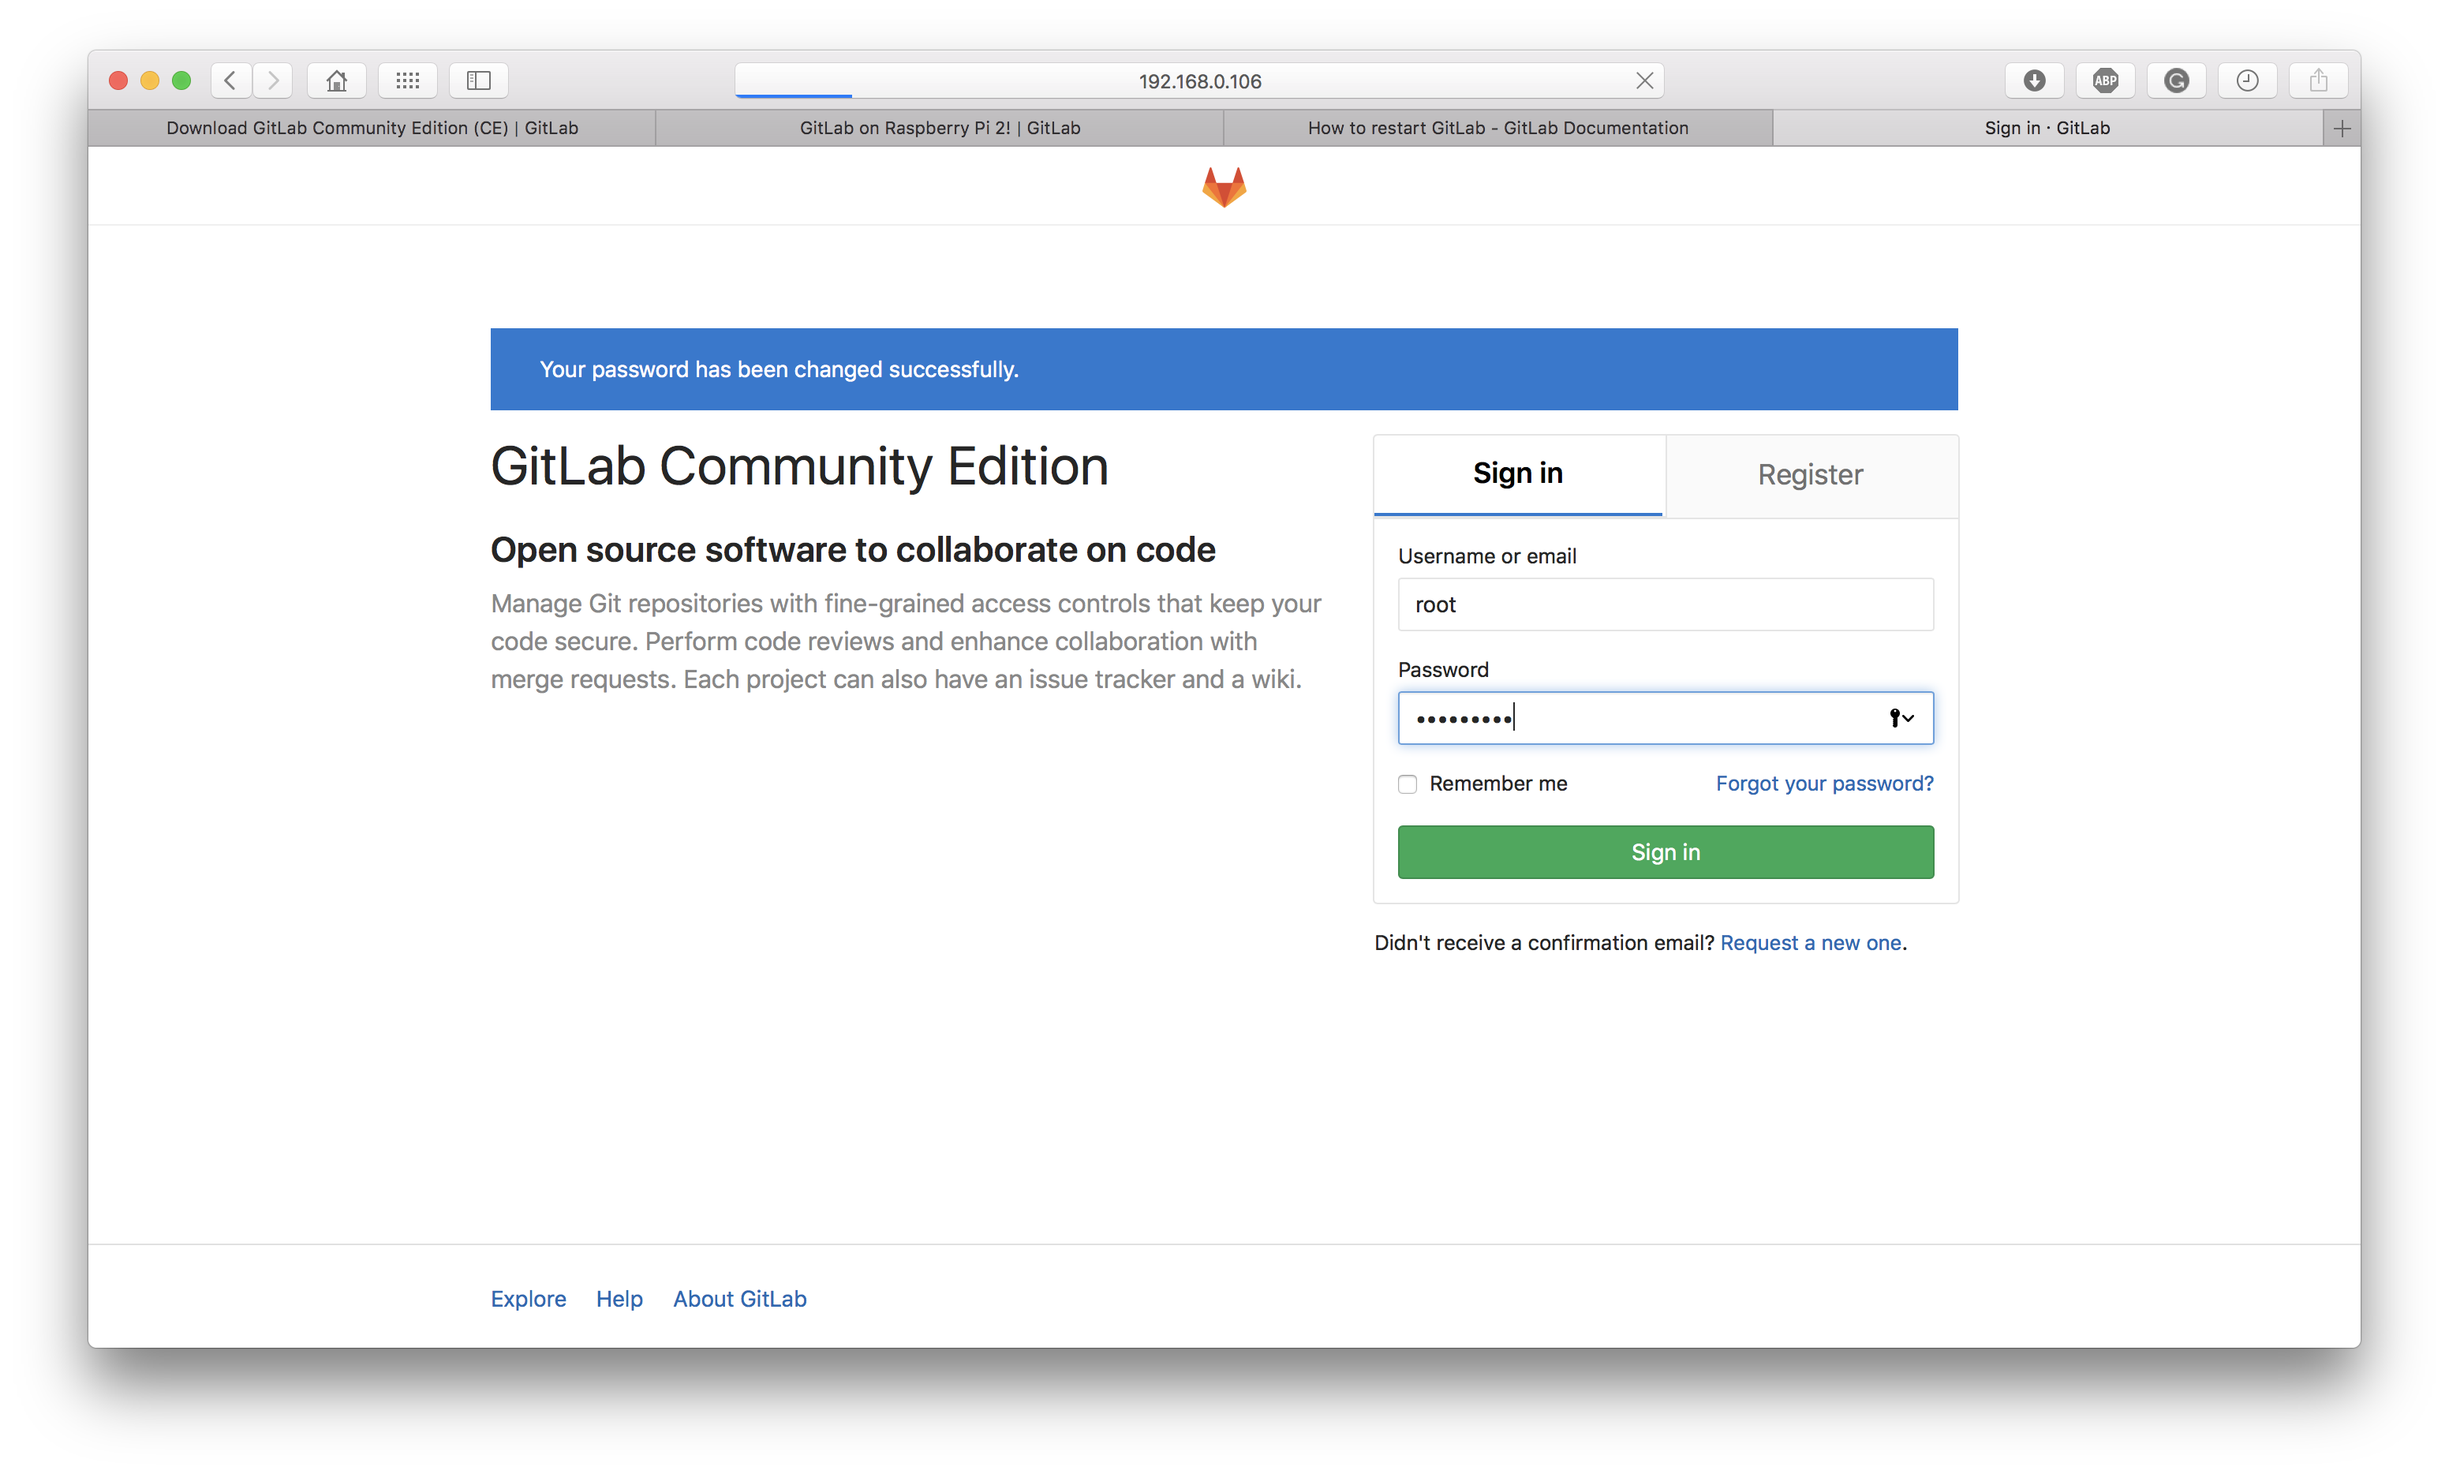
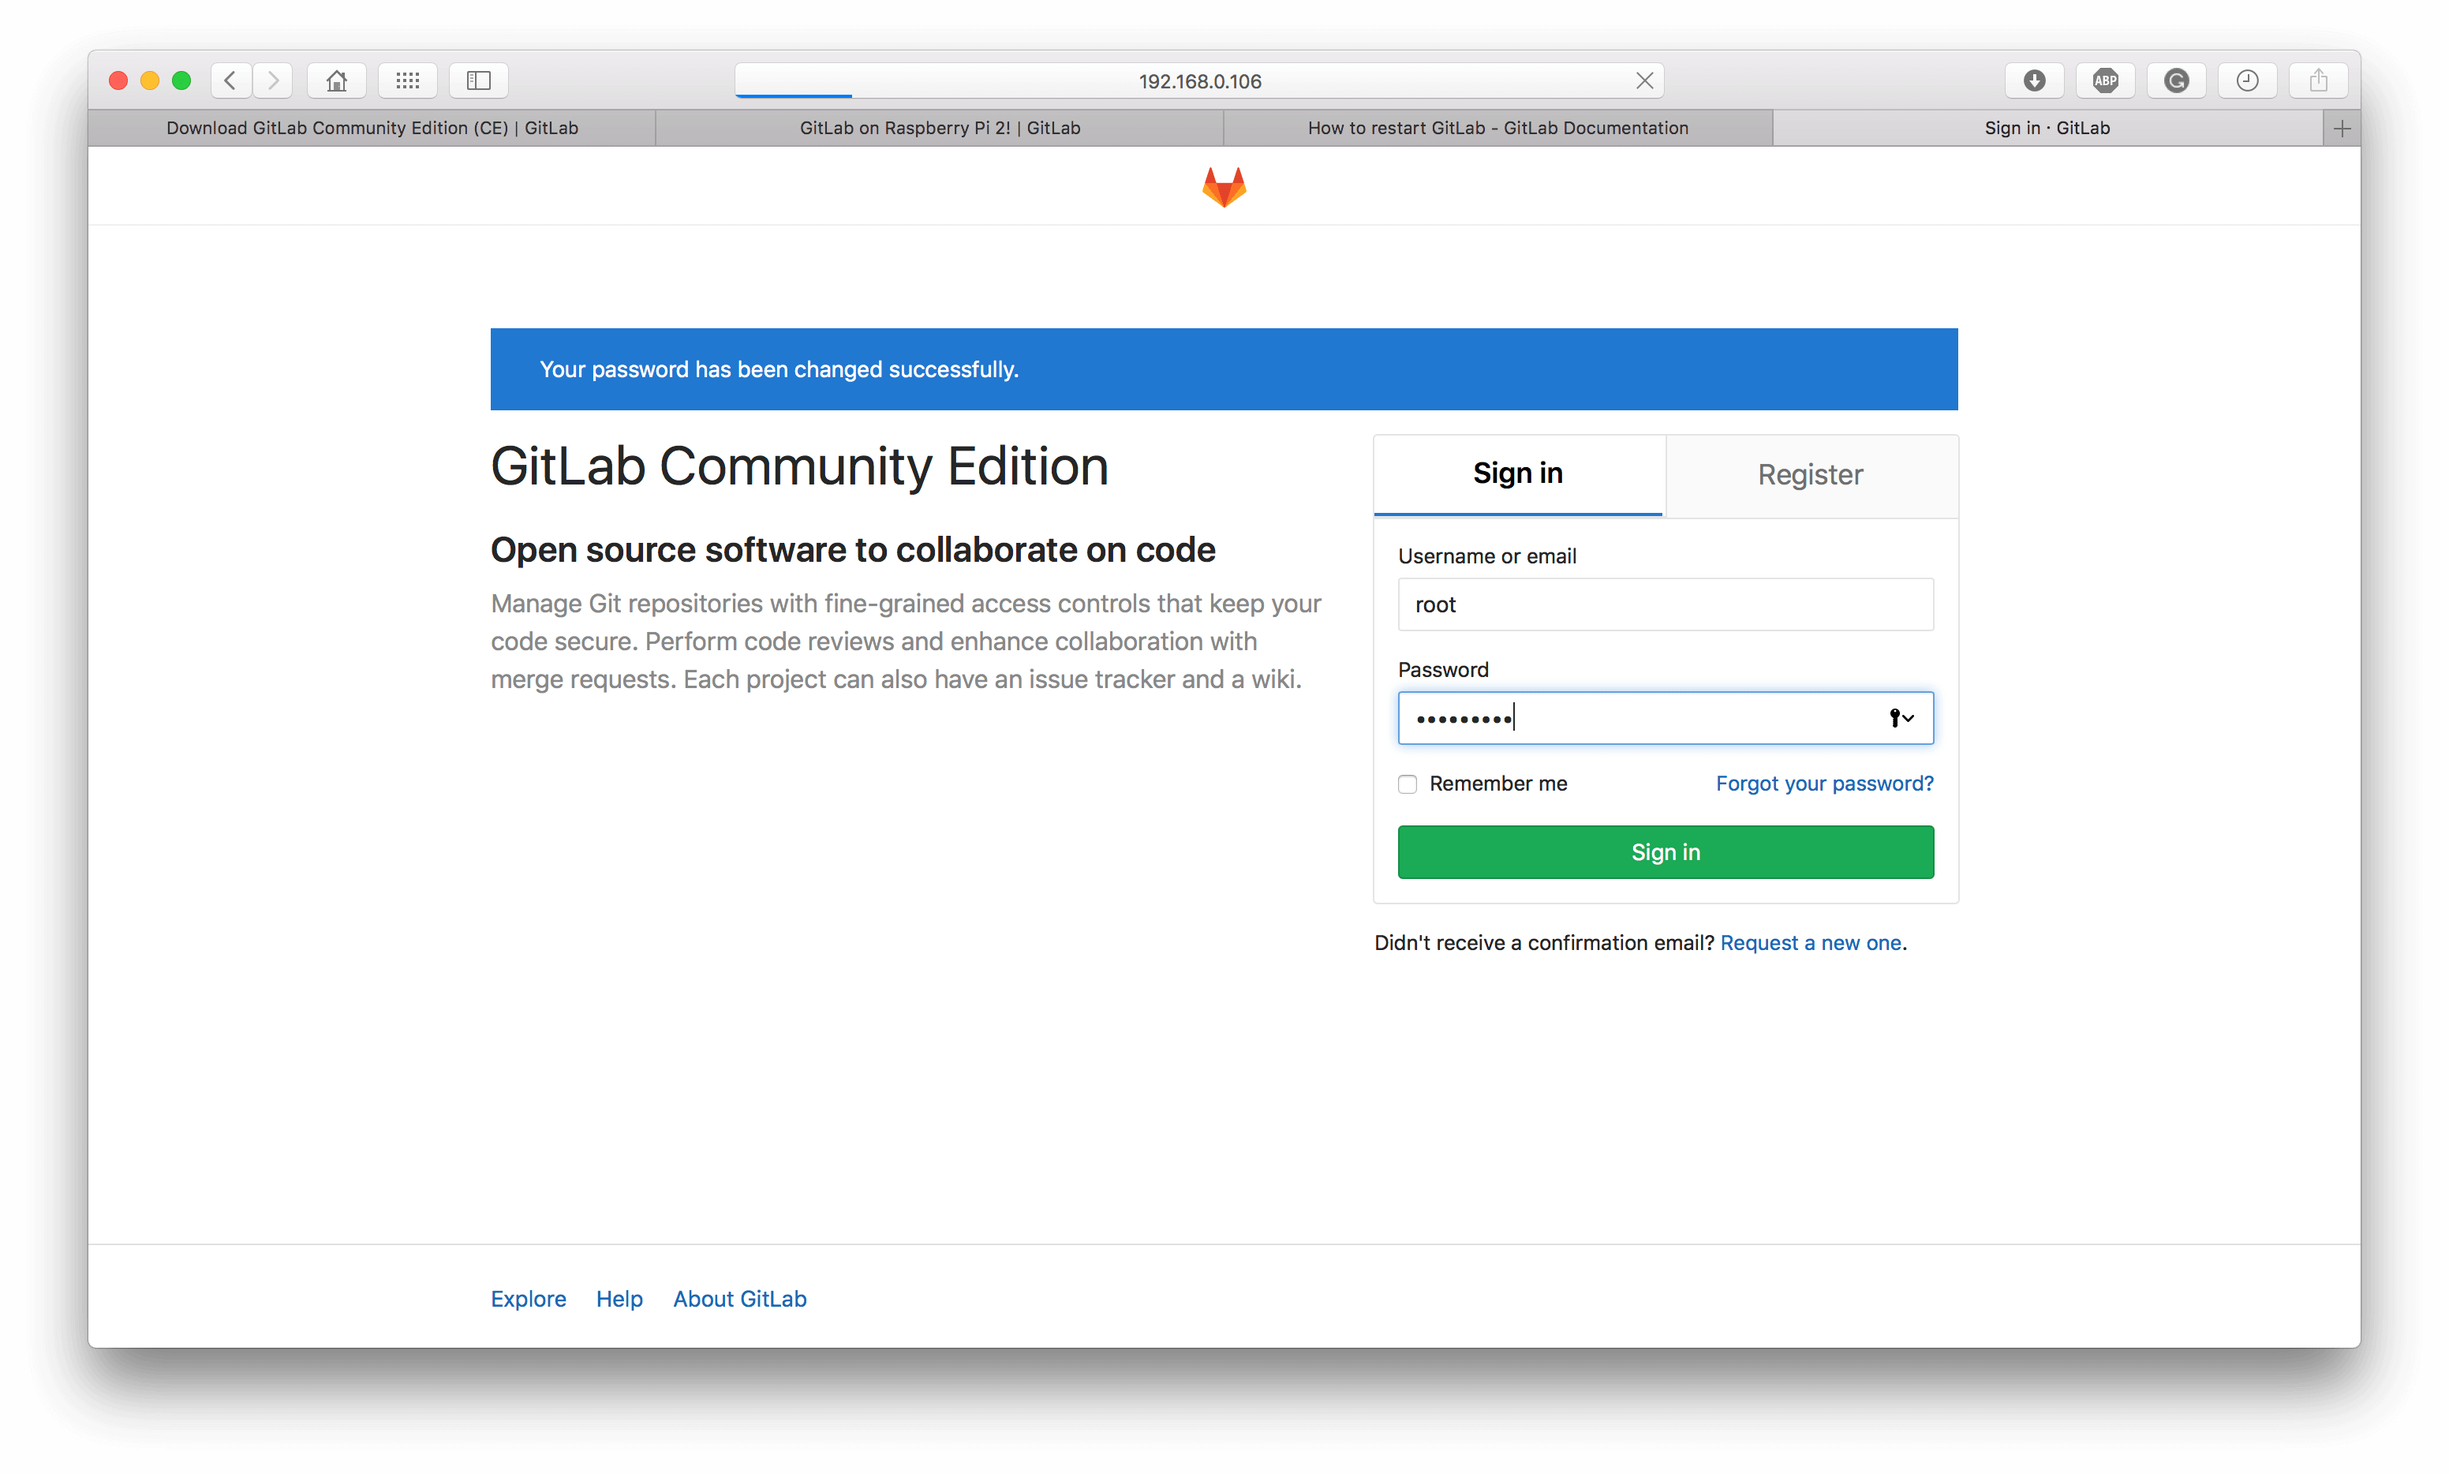
Minified new images

Changed region(s): [[0.1875, 0.2173, 0.8125, 0.2794], [0.5625, 0.5589, 0.8125, 0.621]]

diff --git a/_posts/2017-07-01-create-your-own-git-server-using-raspberry-pi-and-gitlab.md b/_posts/2017-07-01-create-your-own-git-server-using-raspberry-pi-and-gitlab.md
@@ -80,7 +80,7 @@ That's it. Congratulations!!! You sucessfully installed GitLab server on your Ra
 <blockquote class="twitter-tweet" data-lang="en"><p lang="en" dir="ltr">Finally!!👾 Running <a href="https://twitter.com/gitlab">@gitlab</a> CE locally on my <a href="https://twitter.com/hashtag/RaspberryPi3?src=hash">#RaspberryPi3</a>. <a href="https://twitter.com/hashtag/Git?src=hash">#Git</a> <a href="https://twitter.com/hashtag/RaspberryPi?src=hash">#RaspberryPi</a> <a href="https://twitter.com/hashtag/LearnEveryDay?src=hash">#LearnEveryDay</a> <a href="https://t.co/SB4SO39Xe8">pic.twitter.com/SB4SO39Xe8</a></p>&mdash; Keval Patel (@kevalpatel2106) <a href="https://twitter.com/kevalpatel2106/status/881063654359093248">July 1, 2017</a></blockquote> 
 <script async src="//platform.twitter.com/widgets.js" charset="utf-8"></script>
 
-
+------
 ### Conclusion:
 
 So, now you learned how you can host your own Git server at your home. This will cost you less than $50. But,it will provide you complete controll over your codebase. 
